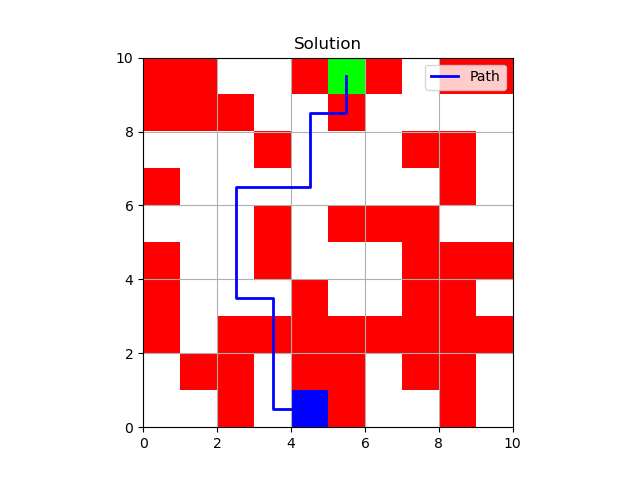
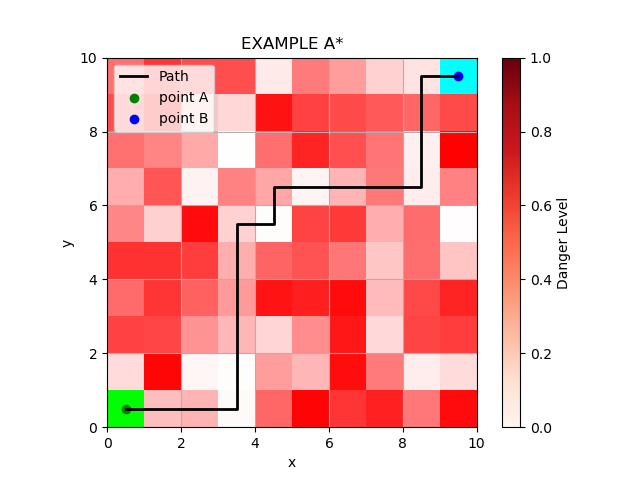
yeet

diff --git a/LSM.py b/LSM.py
@@ -1,6 +1,7 @@
 import numpy as np
 import random
 import matplotlib.pyplot as plt
+import matplotlib.colors as mcolors
 import heapq
 from collections import deque
 import time
@@ -140,14 +141,28 @@ def visualize_problem(problem):
     for i in range(n):
         for j in range(n):
             cell = grid[i][j]
+            danger = cell.danger
             if cell.science >=0.95:  
-                color_grid[i, j] = [0, 1, 0]  # Green for goal
-            elif cell.danger >= 0.5:  
-                color_grid[i, j] = [1, 0, 0]  # Red for unsafe
+                color_grid[i, j] = [0, 1, 1]  # Green for goal
+            # elif cell.danger > 0,5:
+            #     color_grid[i, j] = [1, 1-]
             else:  # Safe cell
-                color_grid[i, j] = [1, 1, 1]  # White for safe cells
+                color_grid[i, j] = [1, 1-danger, 1-danger]  # Blue for safe cells
     init_state = problem.initial_state
-    color_grid[init_state.x,init_state.y] = [0,0,1]
+    color_grid[init_state.x,init_state.y] = [0,1,0]
+
+    fig, ax = plt.subplots()
+
+    # Show RGB grid
+    ax.imshow(color_grid, origin='lower', extent=[0, n, 0, n])
+
+    # Overlay invisible danger map for colorbar
+    norm = mcolors.Normalize(vmin=0, vmax=1)
+    sm = plt.cm.ScalarMappable(cmap='Reds', norm=norm)
+    sm.set_array([])  # required for colorbar
+    cbar = plt.colorbar(sm, ax=ax)
+    cbar.set_label("Danger Level")
+
     # Plot the grid
     plt.imshow(color_grid, extent=[0, n, 0, n])
     plt.grid(True)
@@ -159,37 +174,16 @@ def visualize_solution(problem, path):
     n = len(grid)
 
     visualize_problem(problem)
-
-    # tram_x = []
-    # tram_y = []
-    # rail_x = []
-    # rail_y = []
-
-    # # Adjust for the flipped y-axis in matplotlib vs numpy and sort by transport system
-    # for state in path:
-    #     if grid[state.x][state.y].grade > 0.5:
-    #         tram_x.append(state.y + 0.5)
-    #         tram_y.append(n-state.x-0.5)
-    #     else:
-    #         rail_x.append(state.y + 0.5)
-    #         rail_y.append(n-state.x-0.5)
-
-    # transition_x = [rail_x[0],tram_x[-1]]
-    # transition_y = [rail_y[0],tram_y[-1]]
-
-    # #plot transport type 1
-    # plt.plot(tram_x, tram_y, color='blue', linewidth=2, label="Tram")
-    # #plot transport type 2
-    # plt.plot(rail_x, rail_y, color='red', linewidth=2, label="Rail")
-    # #plot transition
-    # plt.plot(transition_x, transition_y, color='black', linewidth=2, label="Transition")
-
     # Adjust for the flipped y-axis in matplotlib vs numpy
     path_x = [state.y + 0.5 for state in path]  # Flip x and y because matplotlib expects (row, col)
     path_y = [n - state.x - 0.5 for state in path]  # Flip y-axis to match numpy indexing
 
-    plt.plot(path_x, path_y, color='blue', linewidth=2, label="Path")
-    plt.title("Solution")
+    plt.plot(path_x, path_y, color='black', linewidth=2, label="Path")
+    plt.scatter(0.5, 0.5, color='green', label='point A')
+    plt.scatter(9.5, 9.5, color='blue', label='point B')
+    plt.title("EXAMPLE A*")
+    plt.xlabel('x')
+    plt.ylabel('y')
     plt.legend()
     plt.savefig(f'Solution{len(problem.grid)}')
     plt.close()
@@ -275,9 +269,9 @@ def create_path(pointA, pointB):
             # roughness = rou[i][j]
             danger = random.random()
             grid[i, j] = GridCell(science=science, grade=0, elevation=0, roughness=0, danger=danger)
-    Ay = 4-int(pointA[1])
+    Ay = int(pointA[1])
     Ax = int(pointA[3])
-    By = 4-int(pointB[1])
+    By = int(pointB[1])
     Bx = int(pointB[3])
     grid[Bx][By].science = 1
     initial_state = transportState(Ax, Ay)
